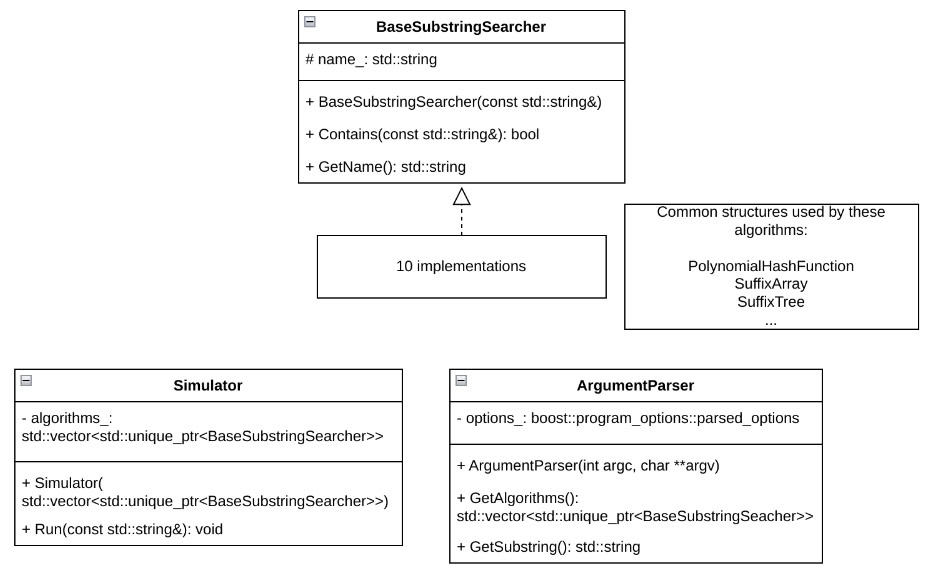
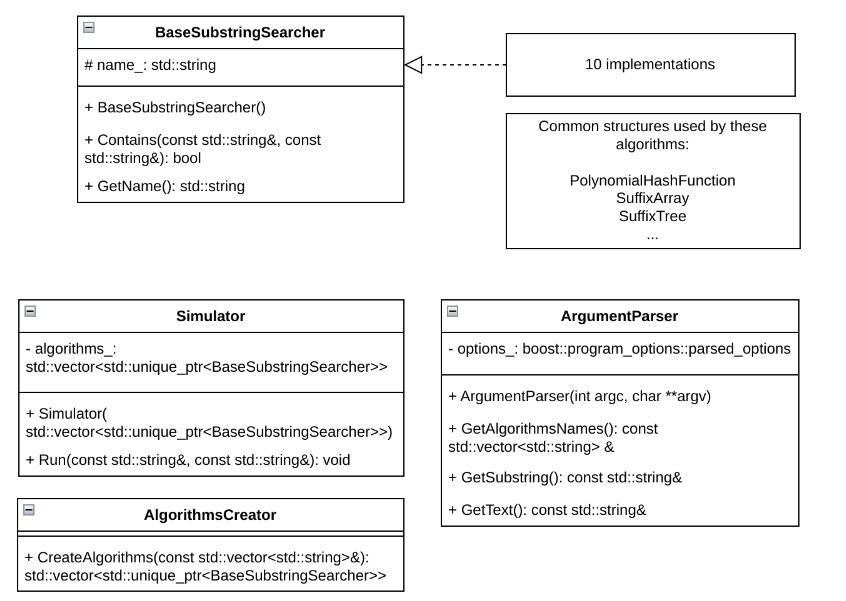
fix: update architecture overview (#6)
Move architecture overview into doc
Fix architecture

---------

Changed region(s): [[0.0, 0.0, 0.9835, 1.0], [0.9835, 0.3573, 1.0, 0.5657]]

diff --git a/README.md b/README.md
@@ -20,21 +20,3 @@
 | Алгоритм Бойера-Мура  (Boyer-Moore algorithm)                          | $O(t)$             | $O(pt)$                                   | $O(p+\sigma)$     | $O(p+\sigma)$              | Single                        | Обратный              | Считается наиболее быстрым из алгоритмов общего назначения. Использует эвристики. Существует большое количество оптимизаций                                                                                                                                                                                                      |
 | Поиск подстроки в строке с помощью суффиксного массива  (Suffix array) | $O(p\log t)$    | $O(p\log t)$                            | $O(t)$         | $O(t)$                  | Single                        | Прямой                | Использует Суффиксный массив. Если использовать  Largest common prefix (lcp), то можно уменьшить асимптотику до $O(p+\log t)$. Суффиксный массив можно строить стандартными способами или  алгоритмом Карккайнена-Сандерса. Асимптотика приведена для построения суффиксного массива с помощью алгоритма Карккайнена-Сандерса |
 | Поиск подстроки в строке с помощью суффиксного дерева  (Suffix tree)   | $O(p)$             | $O(p)$                                     | $O(t)$         | $O(t)$                  | Single                        | Прямой                | Позволяет выполнять поиск подстроки в строке за линейное время                                                                                                                                                                                                                                                                      |
-
-## Архитектура библиотеки и среды исполнения
-
-![Архитектура](docs/images/architecture.png)
-
-Пользователь запускает программу с аргументами командной строки.\
-Создается объект `ArgumentParser`, который разбирает аргументы командной строки.\
-Вызывается метод `GetAlgorithms` класса `ArgumentParser`, который создает и возвращает вектор алгоритмов.\
-Вызывается метод `GetSubstring` класса `ArgumentParser`, который возвращает подстроку для поиска.\
-Вектор алгоритмов передается в конструктор `Simulator`.\
-Вызывается метод `Run`, принимающий искомую подстроку, класса `Simulator`.
-
-Для каждого алгоритма в векторе `algorithms_`:
-- Вызывается метод `Contains` для поиска подстроки.
-- Результаты (время выполнения, успешность поиска) записываются.
-- Результаты сравниваются и выводятся пользователю.
-
-Некоторые алгоритмы могут использовать общие структуры данных, такие как `PolynomialHashFunction`, `SuffixArray` или `SuffixTree`. Эти структуры создаются и управляются внутри соответствующих алгоритмов.

diff --git a/docs/arhcitecture.md b/docs/arhcitecture.md
@@ -1,0 +1,19 @@
+# Архитектура библиотеки и среды исполнения
+
+![Архитектура](./images/architecture.png)
+
+Пользователь запускает программу с аргументами командной строки.\
+Создается объект `ArgumentParser`, который разбирает аргументы командной строки.\
+Вызывается метод `GetAlgorithmsNames` класса `ArgumentParser`, который возвращает вектор названий алгоритмов.\
+Вектор названий передается в метод `CreateAlgorithms` класса `AlgorithmsCreator`, который создает и возвращает вектор объектов алгоритмов.\
+Вызывается метод `GetSubstring` класса `ArgumentParser`, который возвращает подстроку для поиска.\
+Вызывается метод `GetText` класса `ArgumentParser`, который возвращает текст, в котором будет производиться поиск.\
+Вектор алгоритмов передается в конструктор `Simulator`.\
+Вызывается метод `Run`, принимающий искомую подстроку, класса `Simulator`.
+
+Для каждого алгоритма в векторе `algorithms_`:
+- Вызывается метод `Contains` для поиска подстроки.
+- Результаты (время выполнения, успешность поиска) записываются.
+- Результаты сравниваются и выводятся пользователю.
+
+Некоторые алгоритмы могут использовать общие структуры данных, такие как `PolynomialHashFunction`, `SuffixArray` или `SuffixTree`. Эти структуры создаются и управляются внутри соответствующих алгоритмов.
